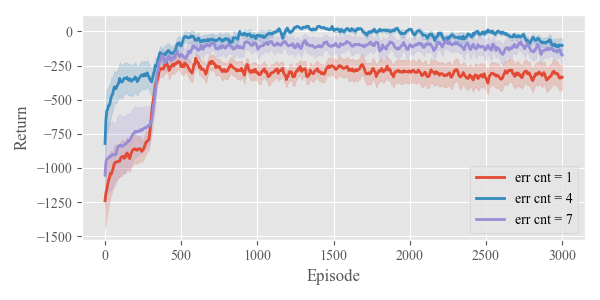
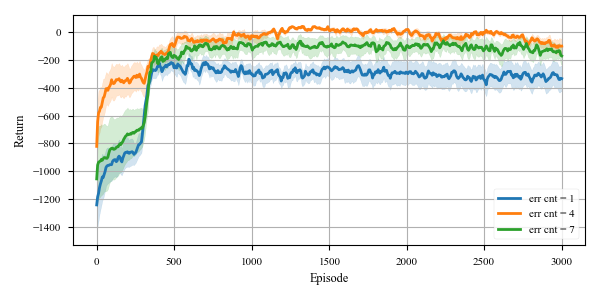
add note about tracktion level and model output mapping

diff --git a/train_lab3/follow_speed_agent3.py b/train_lab3/follow_speed_agent3.py
@@ -38,14 +38,21 @@ from train_lab2.plotting import (
 
 # TARGET_SPEEDS = {"speeds": 10}
 # TARGET_SPEEDS = "random"
-TARGET_SPEEDS = {
-    "times": [0, 3, 10, 12, 20, 25, 30],
-    "speeds": [0, 10, 10, 15, 15, 5, 5],
-}
-# TARGET_SPEEDS = [generate_random_target_speeds(20.0, num_points=4) for _ in range(3)]
+# TARGET_SPEEDS = {
+#     "times": [0, 3, 10, 12, 20, 25, 30],
+#     "speeds": [0, 30, 30, 45, 45, 30, 30],
+# }
 
-EPISODE_LENGTH = 30
-EPISODES = 50
+# TARGET_SPEEDS = {
+#     "times": [0, 5, 10, 15, 30],
+#     "speeds": [0, 30, 30, 50, 30],
+# }
+
+# TARGET_SPEEDS = [generate_random_target_speeds(20.0, num_points=4) for _ in range(3)]
+TARGET_SPEEDS = {"times": [0, 10, 15, 20], "speeds": [0, 10, 10, 25]}
+
+EPISODE_LENGTH = 20
+EPISODES = 5000
 INTERP_METHOD = "cubic"
 
 
@@ -201,9 +208,9 @@ class TrainSpeedEnv(gym.Env):
 
         # --- Action penalties ---
         action_change = action - self.previous_action
-        action_smoothness_penalty = -0.02 * (action_change**2)
+        action_smoothness_penalty = -0.05 * (action_change**2)
 
-        survive_reward = 0.1
+        survive_reward = 0.2
         self.previous_action = action
 
         return velocity_reward + survive_reward
@@ -219,14 +226,10 @@ class TrainSpeedEnv(gym.Env):
         target_speed = self.get_target_speed()
 
         velocity_error = abs(vel - target_speed)
-        max_allowed_error = 10.0
-        # max_allowed_error = max(10.0, abs(target_speed) * 3)
+        max_allowed_error = max(10.0, abs(target_speed) * 0.5)
 
-        if velocity_error > max_allowed_error and time > 5:
+        if velocity_error > max_allowed_error and time > 2.0:
             return True
-
-        # if target_speed > 1.0 and vel < -1.0:
-        #     return True
 
         return False
 
@@ -337,7 +340,7 @@ def train_agent(
     target_critic.load_state_dict(critic.state_dict())
     buffer = ReplayBuffer(cfg.buffer_size, (obs_dim,), act_dim)
 
-    extra_save={'err_cnt':err_cnt, 'ext_dim':ext_dim}
+    extra_save = {"err_cnt": err_cnt, "ext_dim": ext_dim}
     try:
         return train_td3(
             cfg,
@@ -349,7 +352,7 @@ def train_agent(
             buffer,
             device,
             env_option,
-            extra_save
+            extra_save,
         )
     except KeyboardInterrupt:
         print("Training interrupted by user")
@@ -525,10 +528,10 @@ def test_agent(ckpt_path: str = None):
     device = torch.device("cuda" if torch.cuda.is_available() else "cpu")
     ckpt = torch.load(ckpt_path, map_location="cpu", weights_only=False)
     obs_dim = ckpt["obs_dim"]
-    extra_save = ckpt['extra_save']
+    extra_save = ckpt["extra_save"]
 
-    err_cnt = extra_save['err_cnt']
-    ext_dim = extra_save['ext_dim']
+    err_cnt = extra_save["err_cnt"]
+    ext_dim = extra_save["ext_dim"]
 
     act_dim = ckpt["act_dim"]
     act_high = ckpt["act_high"]
@@ -537,7 +540,7 @@ def test_agent(ckpt_path: str = None):
     actor.load_state_dict(ckpt["actor"])
     print(f"load model with ep_ret {ckpt['ep_ret']:.2f}")
 
-    env = TrainSpeedEnv(err_cnt,ext_dim)
+    env = TrainSpeedEnv(err_cnt, ext_dim)
     # and smooth methods: 'pchip', 'cubic', 'univariate', 'akima'
 
     option = {
@@ -563,5 +566,5 @@ def test_agent(ckpt_path: str = None):
 if __name__ == "__main__":
     script_dir = os.path.dirname(os.path.abspath(__file__))
     os.chdir(script_dir)
-    train_agent(err_cnt=2, ext_dim=2)
-    # test_agent()
+    # train_agent(err_cnt=1, ext_dim=0)
+    test_agent()

diff --git a/train_lab3/paper_plot.py b/train_lab3/paper_plot.py
@@ -10,8 +10,10 @@ from typing import Tuple, List
 import matplotlib.pyplot as plt
 import matplotlib.font_manager as fm
 import torch
+# rm ~/.cache/matplotlib -rf
 prop = fm.FontProperties(fname="/usr/share/fonts/truetype/msttcorefonts/timesi.ttf")
 plt.rcParams['font.family'] = prop.get_name()
+plt.style.use('seaborn-v0_8-paper')
 
 from td3.train_agent import Config, Actor, Critic, ReplayBuffer, train_td3
 from follow_speed_agent3 import TrainSpeedEnv, test_control_law
@@ -97,7 +99,6 @@ def paper_plot_random_speed_learning_curve():
 
     window_size = 10
     skip_episodes = 100
-    plt.style.use('ggplot')
     fig, ax = plt.subplots(figsize=(6, 3))
     # breakpoint()
     for subdir in ['1','4','7']:
@@ -135,11 +136,14 @@ def paper_plot_track_speed():
     act_dim = ckpt["act_dim"]
     act_high = ckpt["act_high"]
     act_low = ckpt["act_low"]
+    extra_save = ckpt['extra_save']
+    err_cnt = extra_save['err_cnt']
+    ext_dim = extra_save['ext_dim']
     actor = Actor(obs_dim, act_dim, act_high, act_low).to(device)
     actor.load_state_dict(ckpt["actor"])
     print(f"load model with ep_ret {ckpt['ep_ret']:.2f}, obs_dim {obs_dim}, act_dim {act_dim}")
 
-    env = TrainSpeedEnv(obs_dim-2,2)
+    env = TrainSpeedEnv(err_cnt,ext_dim)
     target_speeds = {
         "times": [0,  3, 10, 12, 20, 25, 30],
         "speeds": [0, 10, 10, 15, 15, 5, 5],
@@ -162,26 +166,28 @@ def paper_plot_track_speed():
     positions = result["pos_history"]
     velocities = result["vel_history"]
     target_velocities = result["target_vel_history"]
-
-    plt.style.use('ggplot')
-    fig, axs = plt.subplots(1, 2, figsize=(8, 3), sharex=True)
-    axs[0].plot(time_steps, velocities, label="Actual Speed",  linewidth=2.0)
-    axs[0].plot(time_steps, target_velocities, label="Target Speed",  linestyle="--", linewidth=2.0)
+    actions = result["action_history"]
+    actions = [a/10 for a in actions]  # extract single action dimension
+    
+    fig, axs = plt.subplots(1, 2, figsize=(8, 3))
+    axs[0].plot(time_steps, velocities, label="Actual Speed",  linewidth=1.0)
+    axs[0].plot(time_steps, target_velocities, label="Target Speed",  linestyle="--", linewidth=1.0)
     axs[0].set_ylabel("Speed (m/s)")
     axs[0].legend()
     axs[0].grid(True)
     
-    axs[1].plot(positions, velocities, label="Speed Profile",  linewidth=2.0)
-    axs[1].set_xlabel("Position (m)")
-    axs[1].set_ylabel("Speed (m/s)")
+    axs[1].plot(time_steps,actions, label="Control Input", color="tab:orange", linewidth=1.0)
+    axs[1].set_ylabel("Throttle/Brake")
+    axs[1].set_ylim(-1.0, 1.0)
     axs[1].legend()
     axs[1].grid(True)
+    
     plt.tight_layout()
     out_path = os.path.join(PLOT_SAVE_DIR, "paper_track_speed.png")
     plt.savefig(out_path)
     print(f"Saved plot to {out_path}")
 
 if __name__ == "__main__":
-    paper_plot_track_speed()
+    paper_plot_random_speed_learning_curve()
     
     

diff --git a/train_lab2/follow_speed_agent2.py b/train_lab2/follow_speed_agent2.py
@@ -593,6 +593,6 @@ def test_agent(ckpt_path: str = None):
 if __name__ == "__main__":
     script_dir = os.path.dirname(os.path.abspath(__file__))
     os.chdir(script_dir)
-    train_agent(target_speeds=TARGET_SPEEDS)
-    # test_agent()
+    # train_agent(target_speeds=TARGET_SPEEDS)
+    test_agent()
     

diff --git a/train_lab3/note.md b/train_lab3/note.md
@@ -1,0 +1,23 @@
+# 1
+
+Ftrack = k * action + b
+
+action = 0
+Ftrack = m*c1
+b = m*c1
+
+action = a_high
+k* a_high + b = Ftrack_max
+
+k = (Ftrack_max - m*c1)/a_high
+
+Ftrack = (Ftrack_max - m*c1)/a_high * action + m*c1
+
+utrack = Ftrack / Ftrack_max = (1 - m*c1/Ftrack_max) * action + m*c1/Ftrack_max
+
+$$
+u_{\text{track}} =  \left(1 - \frac{m c_1}{F_{\text{track\_max}}}\right) \cdot \text{a} + \frac{m c_1}{F_{\text{track\_max}}}
+$$
+
+Ftrack = 0
+action = -b/k = -((m*c1)*a_high)/(Ftrack_max - m*c1)
